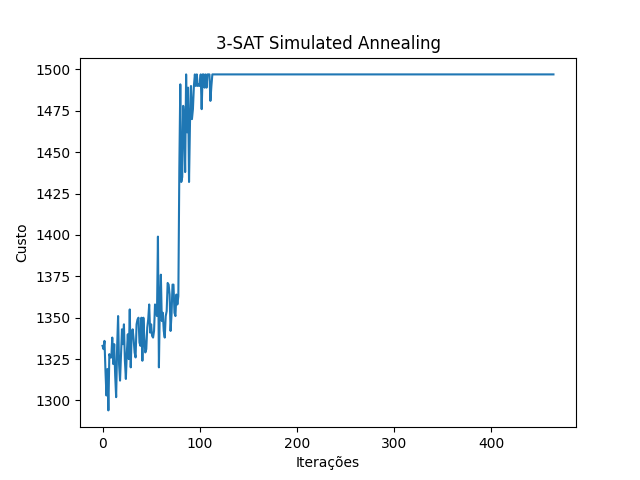
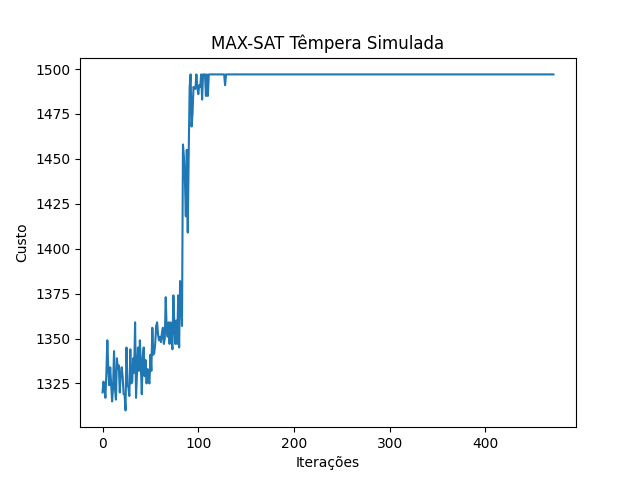
correcao inicial e minima

diff --git a/main.py b/main.py
@@ -16,9 +16,9 @@ def solve(resfriamento, lacointerno, files):
     for file in files:
         solution = Solution(resfriamento, lacointerno, File(file))
         inicio = time.time()
-        sa, qtd = solution.SimulatedAnnealing()
+        sa, qtd, inicial, minimo, media = solution.SimulatedAnnealing()
         duracao = time.time() - inicio
-    return sa, duracao, qtd
+    return sa, duracao, qtd, inicial, minimo, media
 
 def main():
     
@@ -35,17 +35,21 @@ def main():
     #arquivocnf = ["NM4.txt"]
     
     while (iter < 1):
-        sa, duracao, qtd = solve(alpha, lacointerno, arquivocnf)
+        sa, duracao, qtd, inicial, minimo, media = solve(alpha, lacointerno, arquivocnf)
 
         print("Melhor solucao = ")
         print(sa.bit_array)
         print("Custo = %d" % sa.custo)
         print("Total de Clausulas: %d" % qtd)
-        print("Clausulas Satisfeitas: %d" % sa.sat)
+        print("Melhor: %d" % sa.sat)
+        print("Inicial: %d" % inicial)
+        print("Minimo: %f" % minimo)
+        print("Media: %f" % media)
         porcentagem = (sa.sat/qtd)* 100
+        print("GAP: %f" % (sa.sat/qtd))
         print("Porcentagem: %f%%" % porcentagem)
         print("E SAT?: %s" % str(sa.ehsat))
-        print("Duracao: %f" % duracao)
+        print("Tempo: %f" % duracao)
         iter = iter + 1
 
 if __name__ == '__main__':

diff --git a/solution.py b/solution.py
@@ -12,6 +12,7 @@ class estado():
         self.custo = custo
         self.sat = sat
         self.ehsat = ehsat
+        self.inicial = 0
 
 class Solution(Sat):
     def __init__(self, resfriamento, lacointerno, file):
@@ -65,6 +66,7 @@ class Solution(Sat):
         estado = self.estadoaleatorio()
         temperatura = self.temperaturainicial
         estados = []
+        valorestados = []
         iteracoes = []
         t = 0
 
@@ -85,14 +87,19 @@ class Solution(Sat):
                 elif best_estado.custo > estado.custo:
                     best_estado = estado
 
+            if(t == 0):
+                inicial = estado.sat
             temperatura = self.resfria(temperatura)
             iteracoes.append(t)
             estados.append(estado.sat)
+            valorestados.append(estado.sat)
             t = t + 1
             
         plt.plot(iteracoes, estados)
-        plt.title("3-SAT Simulated Annealing")
+        plt.title("MAX-SAT Têmpera Simulada")
         plt.xlabel('Iterações')
-        plt.ylabel('Custo')
+        plt.ylabel('Valor')
         plt.savefig('sat1.png')    
-        return best_estado, self.num_clausulas
+        media = sum(valorestados) / len(valorestados)
+        minimo = min(valorestados)
+        return best_estado, self.num_clausulas, inicial, minimo, media
